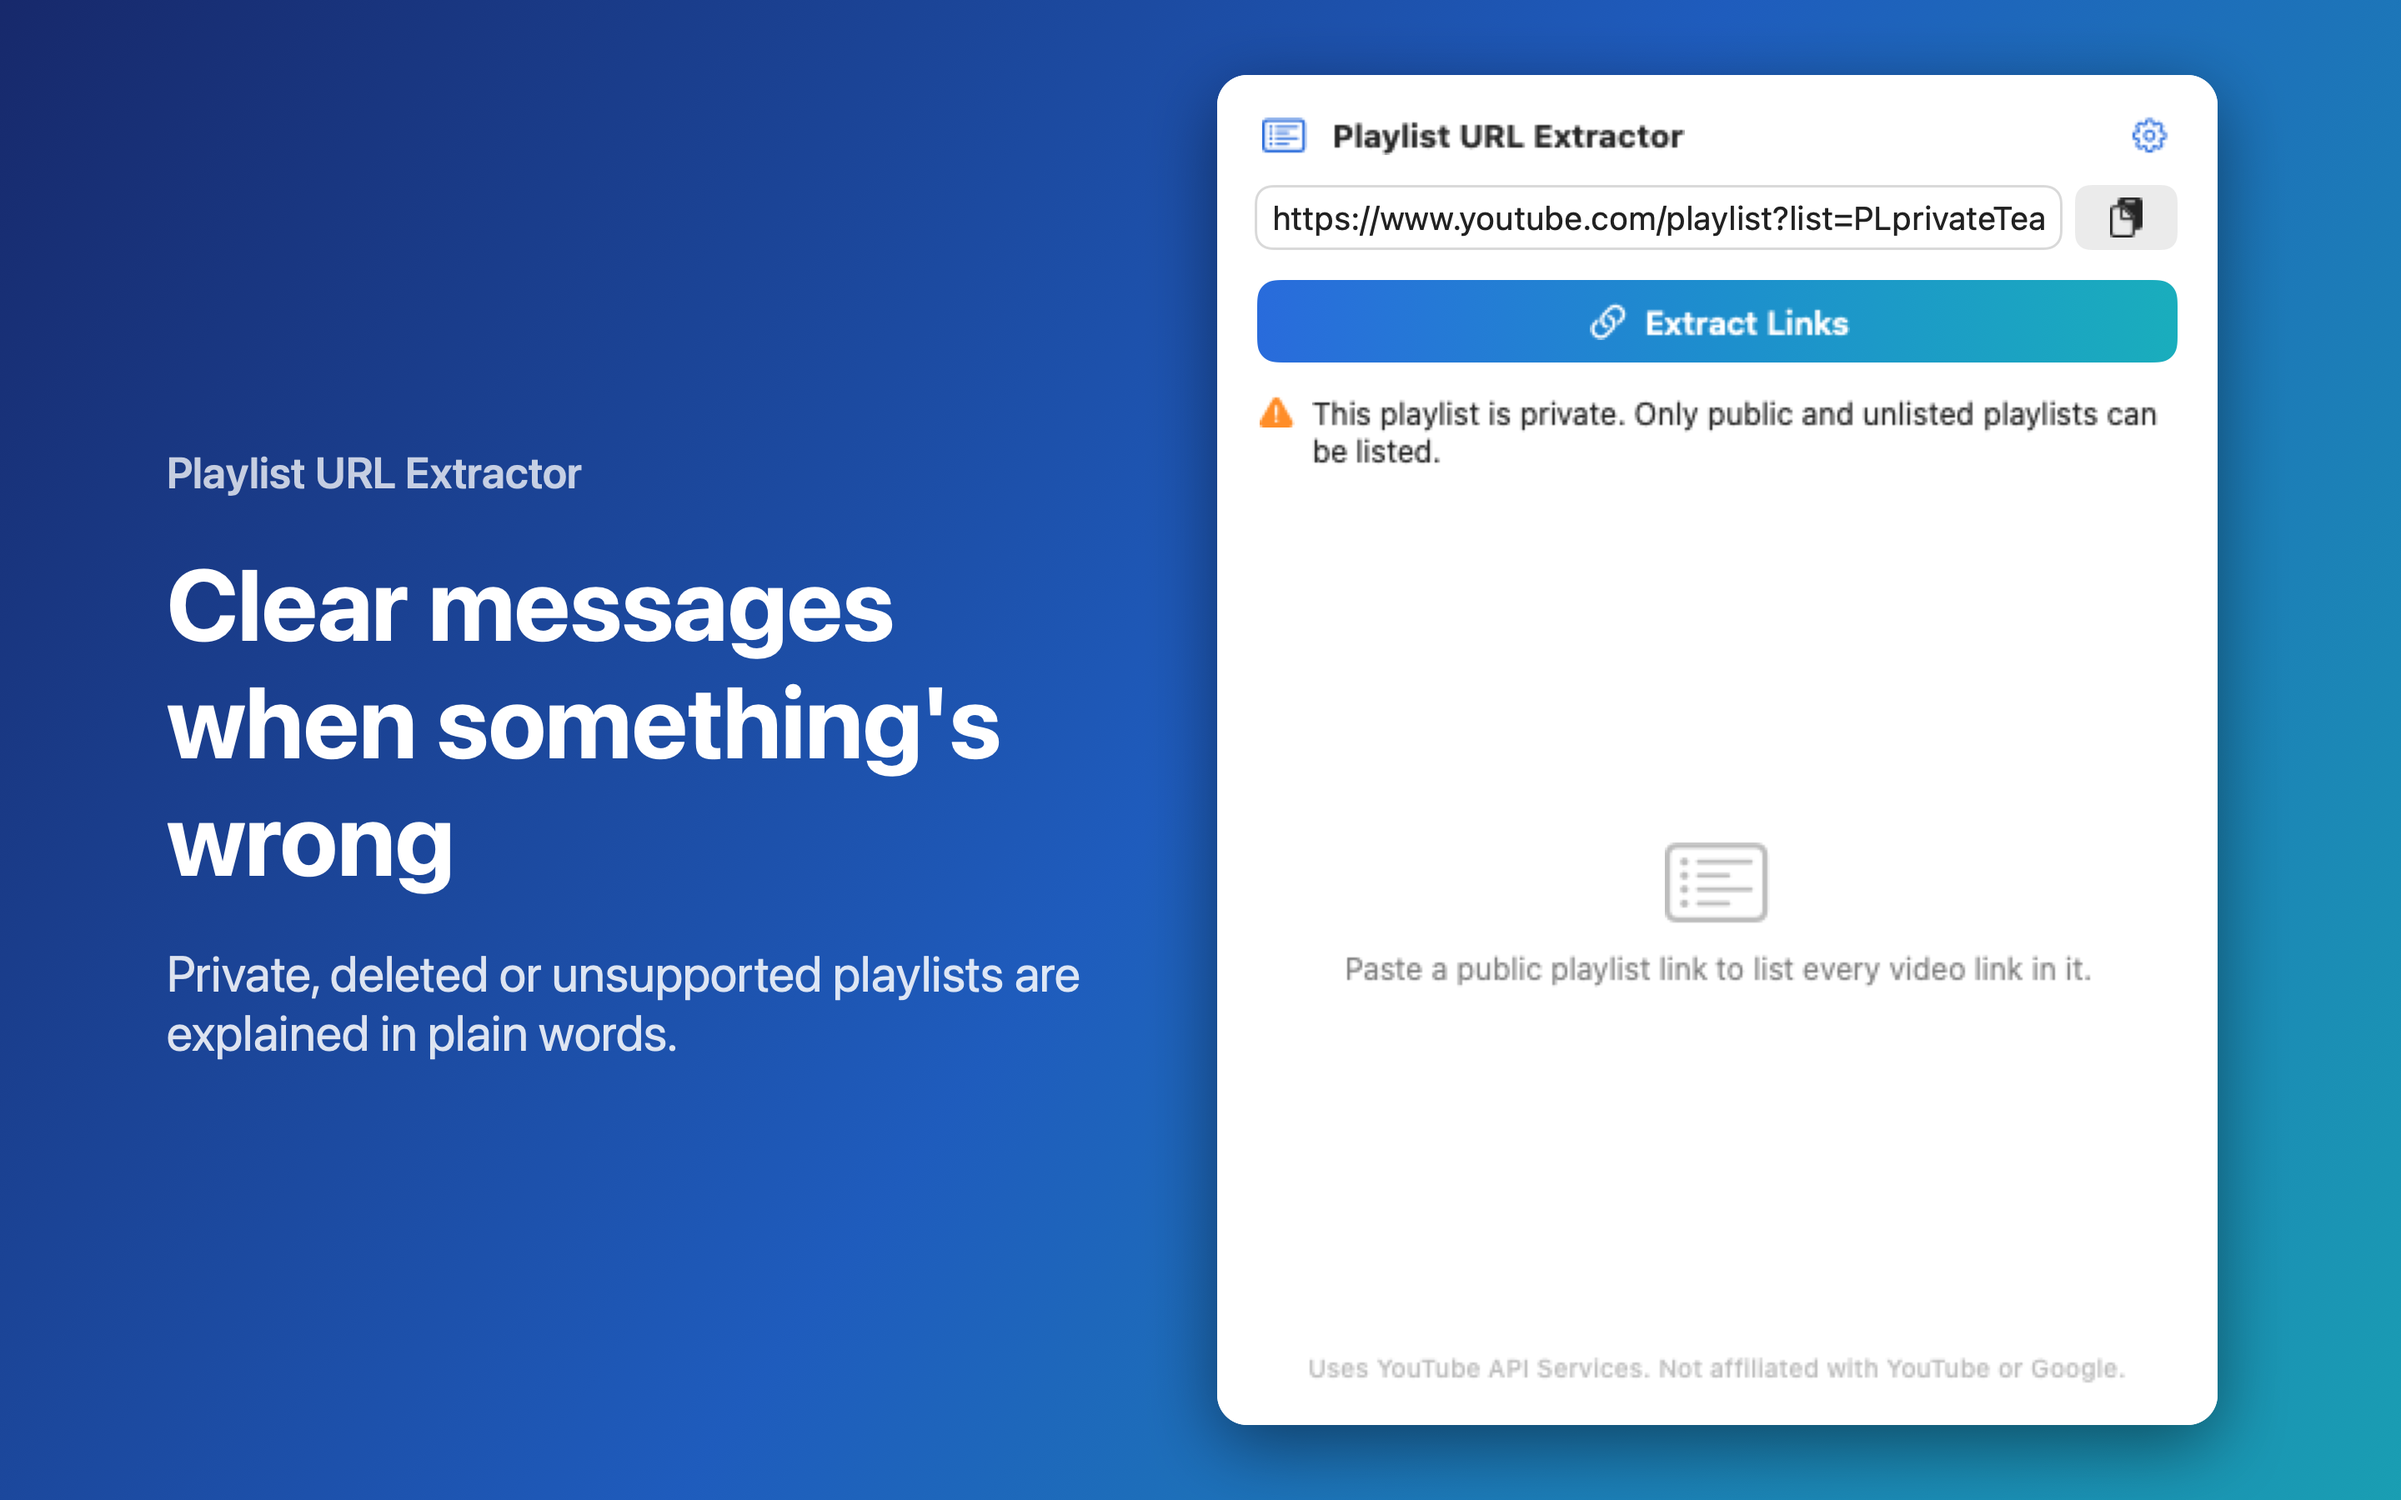
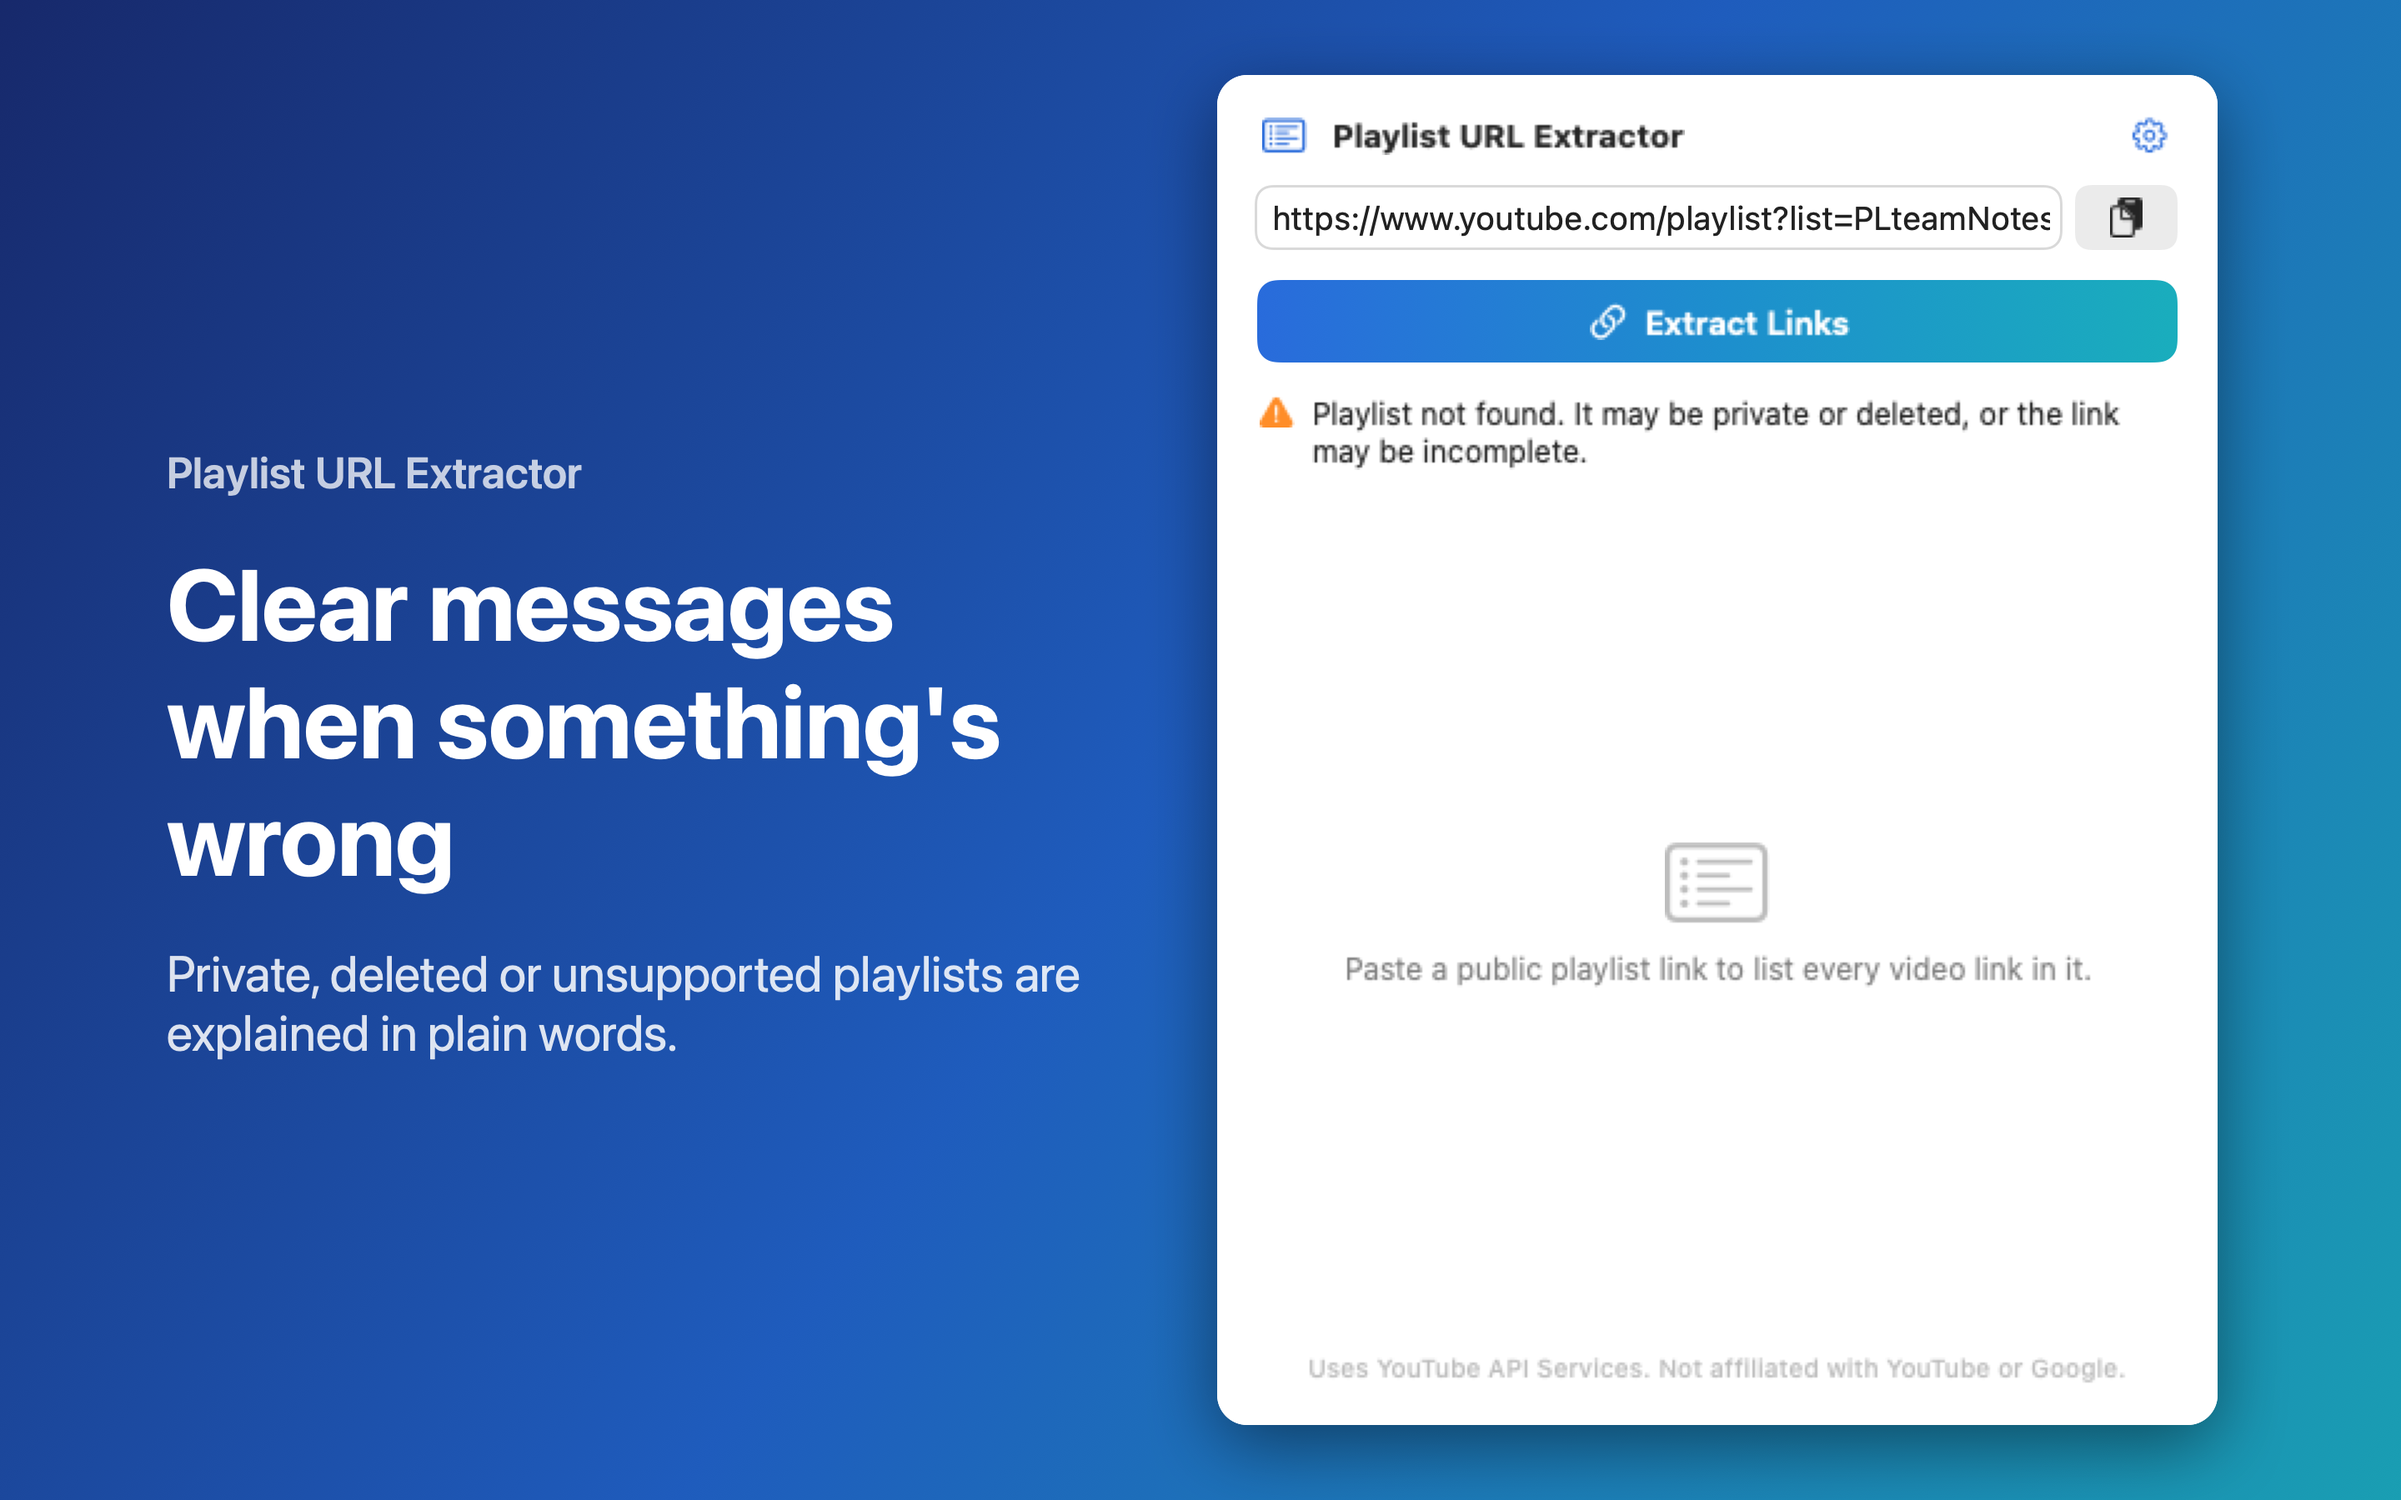
fix: ilk açılış popover'ı, gizlilik ve inceleme notları düzeltmeleri
- Popover ilk açılışta 0,5 sn gecikmeyle açılır; gösterim os_log ile kaydedilir.
- "Bulunamadı" mesajı gizli/silinmiş listeyi de kapsar (anahtarla gizli liste 404 dönebilir);
  3. ekran görüntüsü bu duruma alındı.
- Worker observability kapatıldı (istek günlüğü tutulmaz); 100 sayfa testi sayaçlı limiter ile.
- Reviewer notlarından uzun yükleme listesi çıkarıldı; ExportOptions.plist eklendi.

Claude-Session: https://claude.ai/code/session_01UPWEMsNywxzTx2mW2innbu

Changed region(s): [[0.5312, 0.2489, 0.9062, 0.3111], [0.7812, 0.1244, 0.8438, 0.1556]]

diff --git a/Sources/PlaylistURLExtractorKit/AppDelegate.swift b/Sources/PlaylistURLExtractorKit/AppDelegate.swift
@@ -1,4 +1,5 @@
 import AppKit
+import OSLog
 import SwiftUI
 
 /// Menü çubuğu öğesi ve popover'ı yönetir.
@@ -9,6 +10,7 @@ public final class AppDelegate: NSObject, NSApplicationDelegate {
     private let viewModel: ExtractorViewModel
 
     private static let hasLaunchedKey = "hasLaunchedBefore"
+    private let logger = Logger(subsystem: "com.salihgencer.PlaylistURLExtractor", category: "app")
 
     public init(viewModel: ExtractorViewModel) {
         self.viewModel = viewModel
@@ -38,7 +40,8 @@ public final class AppDelegate: NSObject, NSApplicationDelegate {
         let defaults = UserDefaults.standard
         if !defaults.bool(forKey: Self.hasLaunchedKey) {
             defaults.set(true, forKey: Self.hasLaunchedKey)
-            DispatchQueue.main.async { [weak self] in self?.showPopover() }
+            // Durum öğesinin penceresi yerleşsin diye kısa gecikme.
+            DispatchQueue.main.asyncAfter(deadline: .now() + 0.5) { [weak self] in self?.showPopover() }
         }
     }
 
@@ -54,7 +57,8 @@ public final class AppDelegate: NSObject, NSApplicationDelegate {
 
     private func showPopover() {
         guard let button = statusItem.button, !popover.isShown else { return }
-        popover.show(relativeTo: button.bounds, of: button, preferredEdge: .minY)
         NSApp.activate(ignoringOtherApps: true)
+        popover.show(relativeTo: button.bounds, of: button, preferredEdge: .minY)
+        logger.info("popover shown=\(self.popover.isShown, privacy: .public) buttonWindow=\(button.window != nil, privacy: .public)")
     }
 }

diff --git a/proxy/test/index.spec.ts b/proxy/test/index.spec.ts
@@ -90,8 +90,8 @@ describe("GET /playlist", () => {
     expect(calls[0]!.searchParams.get("pageToken")).toBe("CDIQAA");
   });
 
-  it("walks a 100-page playlist without hitting the per-IP limit", async () => {
-    const { call } = setup((url) => {
+  it("walks a 100-page playlist within the per-IP limit (300/min)", async () => {
+    const { call, limit } = setup((url) => {
       const page = Number(url.searchParams.get("pageToken")?.slice(1) ?? "0");
       if (url.pathname.endsWith("/playlists")) return { status: 200, body: { items: [] } };
       return {
@@ -101,7 +101,10 @@ describe("GET /playlist", () => {
           items: Array.from({ length: 50 }, (_, i) => item(`v${String(page).padStart(3, "0")}_${String(i).padStart(5, "0")}`, "x")),
         },
       };
-    });
+    }, { limiter: true });
+    // wrangler.jsonc'deki sınırı taklit eden sayaçlı limiter.
+    let used = 0;
+    limit.mockImplementation(async () => ({ success: ++used <= 300 }));
     let token: string | null = null;
     let total = 0;
     for (let i = 0; i < 101; i++) {
@@ -113,6 +116,7 @@ describe("GET /playlist", () => {
       if (!token) break;
     }
     expect(total).toBe(5000);
+    expect(used).toBe(100);
   });
 
   it("never leaks the API key in any response", async () => {

diff --git a/Sources/PlaylistURLExtractorKit/ScreenshotRenderer.swift b/Sources/PlaylistURLExtractorKit/ScreenshotRenderer.swift
@@ -11,7 +11,7 @@ import UniformTypeIdentifiers
 @MainActor
 enum ScreenshotRenderer {
     private static let canvas = CGSize(width: 2880, height: 1800)
-    private static let privateLink = "https://www.youtube.com/playlist?list=PLprivateTeamNotes"
+    private static let privateLink = "https://www.youtube.com/playlist?list=PLteamNotesArchive"
     private static let sampleLink = "https://www.youtube.com/playlist?list=\(SamplePlaylistSource.playlistID)"
 
     static func runIfRequested() -> Bool {
@@ -35,7 +35,7 @@ enum ScreenshotRenderer {
                     ("2-copy", .copied(playlist.videos.count), playlist,
                      L10n.string("Copy or save the whole list"),
                      L10n.string("Copy all links to the clipboard or save them as a plain text file.")),
-                    ("3-errors", .failure(.privatePlaylist), nil,
+                    ("3-errors", .failure(.notFound), nil,
                      L10n.string("Clear messages when something's wrong"),
                      L10n.string("Private, deleted or unsupported playlists are explained in plain words.")),
                 ]

diff --git a/Sources/PlaylistURLExtractorKit/PlaylistError.swift b/Sources/PlaylistURLExtractorKit/PlaylistError.swift
@@ -25,7 +25,7 @@ public enum PlaylistError: Error, Equatable, LocalizedError {
         case .unsupportedPlaylist:
             return L10n.string("Mixes, Watch Later and Liked lists can't be listed. Try a regular public playlist.")
         case .notFound:
-            return L10n.string("Playlist not found. It may have been deleted, or the link is incomplete.")
+            return L10n.string("Playlist not found. It may be private or deleted, or the link may be incomplete.")
         case .privatePlaylist:
             return L10n.string("This playlist is private. Only public and unlisted playlists can be listed.")
         case .quotaExceeded:

diff --git a/scripts/gen_strings.py b/scripts/gen_strings.py
@@ -32,8 +32,8 @@ TR = {
         "Bu bağlantıda oynatma listesi yok. “list=” içeren bir bağlantı kullanın.",
     "Mixes, Watch Later and Liked lists can't be listed. Try a regular public playlist.":
         "Karışımlar, Daha Sonra İzle ve Beğenilenler listelenemez. Normal, herkese açık bir oynatma listesi deneyin.",
-    "Playlist not found. It may have been deleted, or the link is incomplete.":
-        "Oynatma listesi bulunamadı. Silinmiş olabilir veya bağlantı eksik.",
+    "Playlist not found. It may be private or deleted, or the link may be incomplete.":
+        "Oynatma listesi bulunamadı. Gizli veya silinmiş olabilir ya da bağlantı eksik olabilir.",
     "This playlist is private. Only public and unlisted playlists can be listed.":
         "Bu oynatma listesi gizli. Yalnızca herkese açık ve liste dışı oynatma listeleri listelenebilir.",
     "The daily lookup limit has been reached. Please try again tomorrow.":

diff --git a/docs/appstore/metadata.md b/docs/appstore/metadata.md
@@ -5,7 +5,7 @@ ASC app 6797833220 · bundle `com.salihgencer.PlaylistURLExtractor` · macOS · 
 Kurallar (5.2.1 / 5.2.2 riskini azaltmak için):
 - Uygulama adı, alt başlık ve anahtar kelimelerde "YouTube" geçmez.
 - Açıklamada YouTube yalnız uyumluluğu anlatmak için ve bağlantısızlık beyanıyla geçer.
-- İkon ve ekran görüntülerinde kırmızı veya oynat üçgeni yok; ekran görüntülerindeki veri kurgusal örnek listedir (12 video, ID'ler gerçek değil).
+- İkon ve ekran görüntülerinde kırmızı veya oynat üçgeni yok; ekran görüntülerindeki veri kurgusal örnek listedir (12 video, ID'ler gerçek değil; 3. görüntüdeki liste kimliği de kurgusal).
 
 ---
 
@@ -113,7 +113,6 @@ How to test:
    (or just the ID: PLOU2XLYxmsIIAOskSyap13n9W-xOt_GP5)
 3. Click "Extract Links". The playlist title and every video link appear.
 4. Click "Copy All" (links are copied to the clipboard) or "Save as Text File…" (a save panel lets you choose the location; the app is sandboxed and only writes where you choose).
-Optional — a long playlist that exercises paging (official channel uploads): UU_x5XG1OV2P6uZZ5FSM9Ttw
 Optional — error handling: enter "PLdoesnotexist000" to see the "Playlist not found" message.
 
 No account, login or in-app purchase is required. No personal data is collected.
